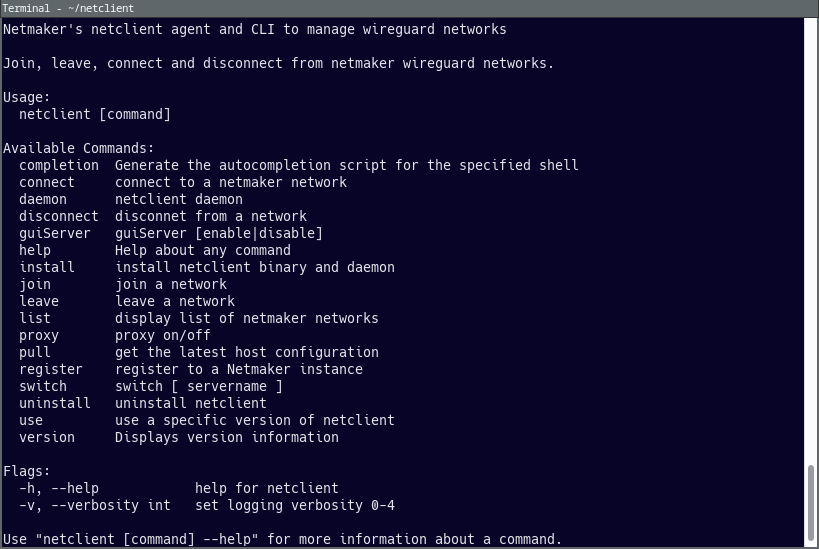
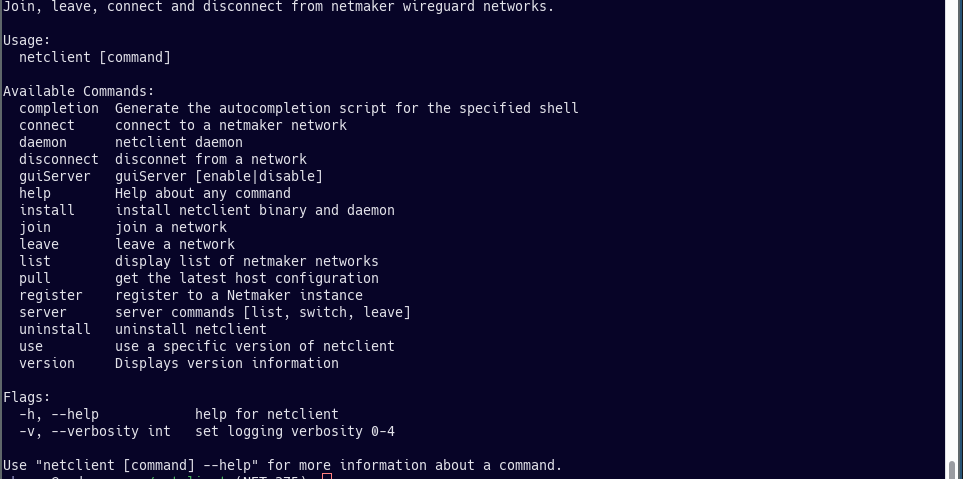
multi-server netclient commands

Changed region(s): [[0.0, 0.0, 1.0, 1.0]]

diff --git a/netclient.rst b/netclient.rst
@@ -331,11 +331,25 @@ List Networks
 Multi-Server
 ============
 
-Netclient can be registered with multiple netmaker servers. You can switch between different netmaker servers using netclient switch command.
+Netclient can be registered with multiple netmaker servers. You can list the servers you are registered with using netclient server list command. 
+The server you are currently connected to will be marked with "active: ".
+.. code-block::
+
+  netclient server list
+
+You can switch between different netmaker servers using netclient switch command.
 *Warning: Switching to another server will disconnect netclient from all the networks on the current server, but you can always switch back using the netclient switch command.*
 .. code-block::
 
-  netclient switch <server name>
+  netclient server switch <server name>
+
+You can completely leave a server using the netclient server leave command.
+*Warning: Leaving a server will remove the host from all networks on the server and delete the host from the server.*  
+In order to reconnect to server you must join or register*
+
+.. code-block::
+
+  netclient server leave <server name>
 
 Use a different version
 =======================
